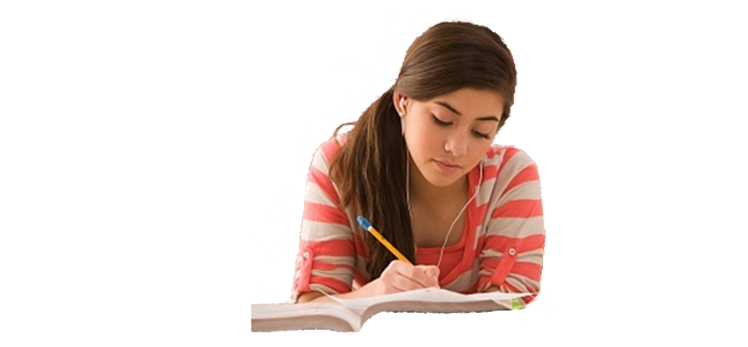
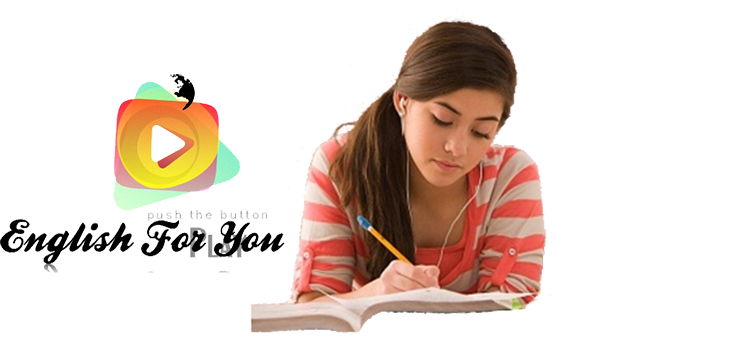
hoàn thiện homepage

Changed region(s): [[0.0, 0.2017, 0.3997, 0.7781]]

diff --git a/EnglishStudy_Web/templates/index2.html b/EnglishStudy_Web/templates/index2.html
@@ -12,15 +12,9 @@
 							<ul class="slides">
 								<li>
 									<div class="img-holder">
-										<img src={% static "CSS/images/img111.png" %} />
+										<img src={% static "CSS/images/img12.png" %} />
 									</div>
-									<div class="slide-cnt">
-										<h2>Your Title Here</h2>
-										<div class="box-cnt">
-											<p>Lorem ipsum dolor sit amet, consectetur adipiscing elit. Phasellus eget augue quis lorem ipsum dolor sit amet, consectetur adipiscing elit. llus eget augue quis lorem ipsum dolor sit amet, free css templates</p>
-										</div>
-										<a href="#" class="grey-btn">request a demo</a>
-									</div>
+									
 								</li>
 								<li>
 									<div class="img-holder">
@@ -32,13 +26,7 @@
 									<div class="img-holder">
 										<img src={% static "CSS/images/img3.png" %} alt="" />
 									</div>
-									<div class="slide-cnt">
-										<h2>Your Title Here</h2>
-										<div class="box-cnt">
-											<p>Lorem ipsum dolor sit amet, consectetur adipiscing elit. Phasellus eget augue quis lorem ipsum dolor sit amet, consectetur adipiscing elit. llus eget augue quis lorem ipsum dolor sit amet, free css templates</p>
-										</div>
-										<a href="#" class="grey-btn">request a demo</a>
-									</div>
+									
 								</li>
 							</ul>
 						</div>
@@ -50,27 +38,27 @@
 					<a href="#" class="m-btn-grey grey-btn">request a demo</a>
 					<section class="cols">
 						<div class="col">
-							<img src={% static "css/images/col-img1.png" %} alt="" />
+							<img src={% static "CSS/images/tracnghiem.png" %} alt="" />
 							<div class="col-cnt">
-								<h2>Design</h2>
-								<p>Lorem ipsum dolor sit amet, con-<br />sectetur adipiscing dolor emor</p>
-								<a href="#" class="more">view more</a>
+								<h2>Bài Luyện Tiếng Anh</h2>
+								<p>Bài luyện Tiếng Anh giúp cho các bạn củng cố thêm kiến thức,<br />rèn tuy duy, phản xạ Tiếng Anh</p>
+								<a href="#" class="more">xem chi tiết</a>
 							</div>
 						</div>
 						<div class="col">
-							<img src={% static "css/images/col-img2.png" %} alt="" />
+							<img src={% static "css/images/video.png" %} alt="" />
 							<div class="col-cnt">
-								<h2>Branding</h2>
-								<p>Lorem ipsum dolor sit amet, consectetur adipiscing dolor</p>
-								<a href="#" class="more">view more</a>
+								<h2>Bài Giảng</h2>
+								<p>English Study Web cung cấp cho các bạn đầy đủ những video bài giảng tiếng anh từ các giáo viên, giảng viên có nhiều năm kinh nghiệm giảng dạy</p>
+								<a href="#" class="more">xem chi tiết</a>
 							</div>
 						</div>
 						<div class="col">
-							<img src={% static "css/images/col-img3.png" %} alt="" />
+							<img src={% static "css/images/nghenhac.gif" %} alt="" />
 							<div class="col-cnt">
-								<h2>Development</h2>
-								<p>Lorem ipsum dolor sit amet, consectetur adipiscing dolor</p>
-								<a href="#" class="more">view more</a>
+								<h2>Bài hát tiếng anh</h2>
+								<p>Bạn cảm thấy kĩ năng nghe của mình còn kém? Hãy luyện nghe tiếng anh qua các bài hát tiếng anh</p>
+								<a href="#" class="more">xem chi tiết</a>
 							</div>
 						</div>
 						<div class="cl">&nbsp;</div>
@@ -81,14 +69,14 @@
 						</div>
 
 						<div class="post-cnt">
-							<h2>What’s in the box?</h2>
-							<p><strong>Lorem ipsum dolor sit amet, consectetur adipiscing elit adispicing amet</strong> Cras molestie condimentum consequat. Nam leo libero, scelerisque tincidunt amet nsectetur adipiscing elit. Cras molestie condimentum nsectetur adipiscing elit. Cras molestie condimentum consequat pretium donec dictum mattis elit, nec:</p>
+							<h2>Tại sao bạn nên học tiếng anh trực tuyến?</h2>
+							<p>Bạn muốn nâng cao trình độ tiếng anh, nhưng lại không có thời gian lên lớp? <br /> Bạn muốn được học Tiếng Anh mọi lúc, mọi nơi. English Study Web sẽ giúp bạn làm được điều mà các bạn mong muốn mà không hề mất một khoản chi phí nào với: </p>
 
 							<ul>
-								<li><a href="#">jQuery Fader</a></li>
-								<li><a href="#">Various column options</a></li>
-								<li><a href="#">Valid XHTML and CSS tableless Design</a></li>
-								<li><a href="#">Tested on Mac &amp; PC</a></li>
+								<li>Hệ thống bài giảng thông minh, phong phú, liên tục được cập nhật</li>
+								<li>Đội ngũ giáo viên trình độ cao sẽ liên tục hỗ trợ, đánh giá, chấm điểm bài học, sửa sai và giúp bạn tiến bộ từng ngày.</li>
+								<li>Ôn tập và học lại kiến thức theo trình độ của mình</li>
+								<li>Chia sẻ, học hỏi và thi đua với cộng đồng thành viên English Study Web</li>
 							</ul>
 						</div>
 						<div class="cl">&nbsp;</div>

diff --git a/EnglishStudy_Web/static/CSS/style.css b/EnglishStudy_Web/static/CSS/style.css
@@ -20,7 +20,7 @@ a.more { color: #2b9208; text-decoration: underline; padding-left: 11px; backgro
 a.more:hover { text-decoration: none;  }
 input, textarea, select { font-size: 12px; font-family: arial, sans-serif; }
 textarea { overflow: auto; }
-
+.authentication{ float: right; }
 .cl { display: block; height: 0; font-size: 0; line-height: 0; text-indent: -4000px; clear: both; }
 .notext { font-size: 0; line-height: 0; text-indent: -4000px; }
 .left, .alignleft { float: left; display: inline; }
